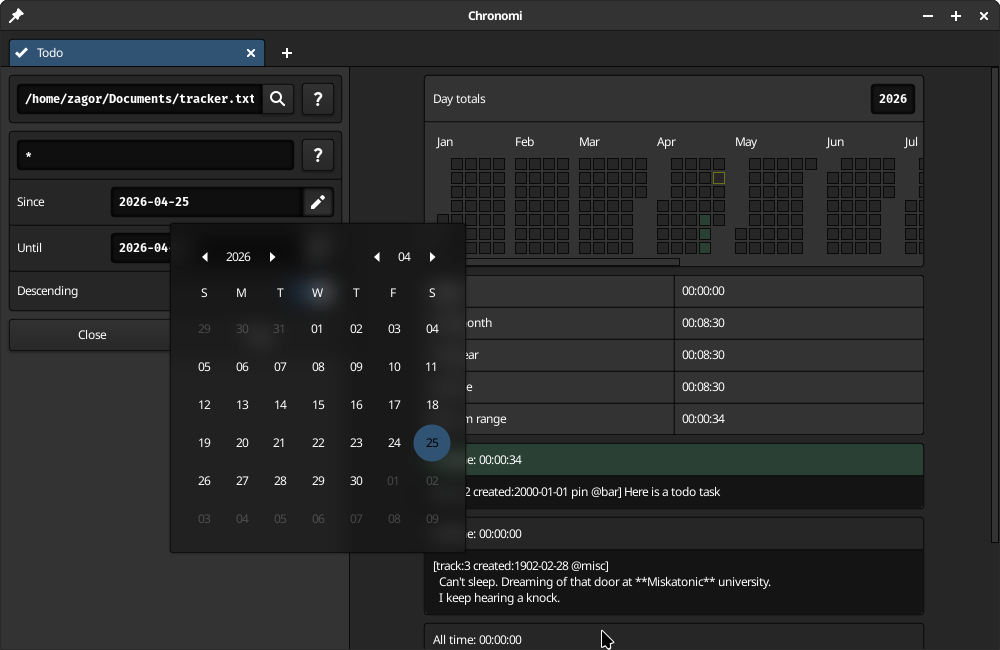
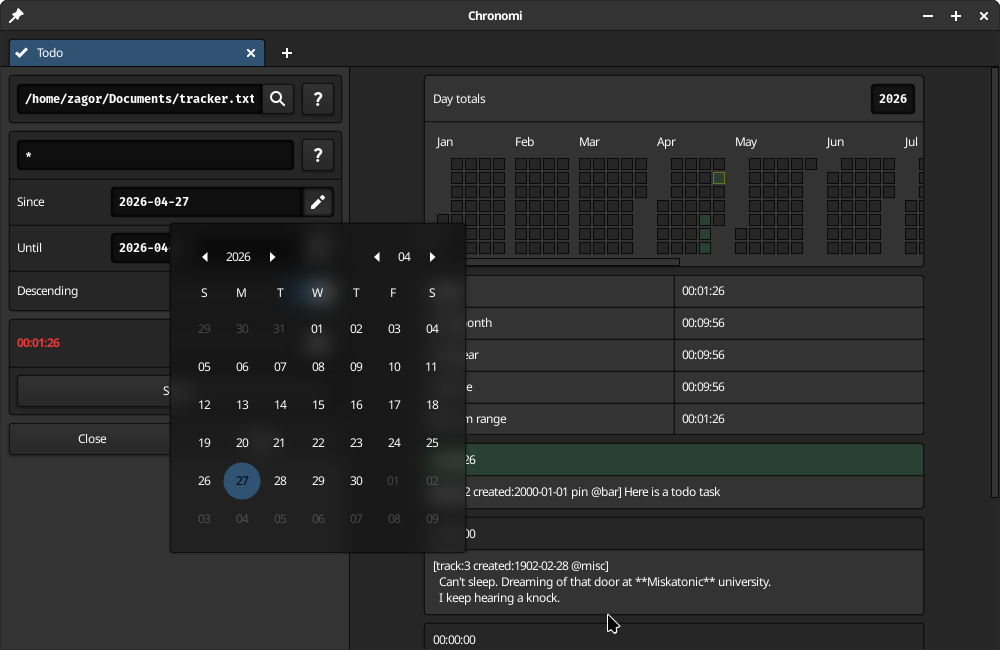
update screenshot

diff --git a/src/app/todo.c b/src/app/todo.c
@@ -1786,8 +1786,7 @@ static Void build_view_time_tracker () {
                     ui_box(0, "header") {
                         ui_style_vec4(UI_BG_COLOR, get_color_for_time(it->total));
                         String time = time_to_str(tm, it->total*1000);
-                        String label = astr_fmt(tm, "All time: %.*s", STR(time));
-                        ui_label(0, "title", label);
+                        ui_label(0, "title", time);
                         ui_hspacer();
                     }
 
